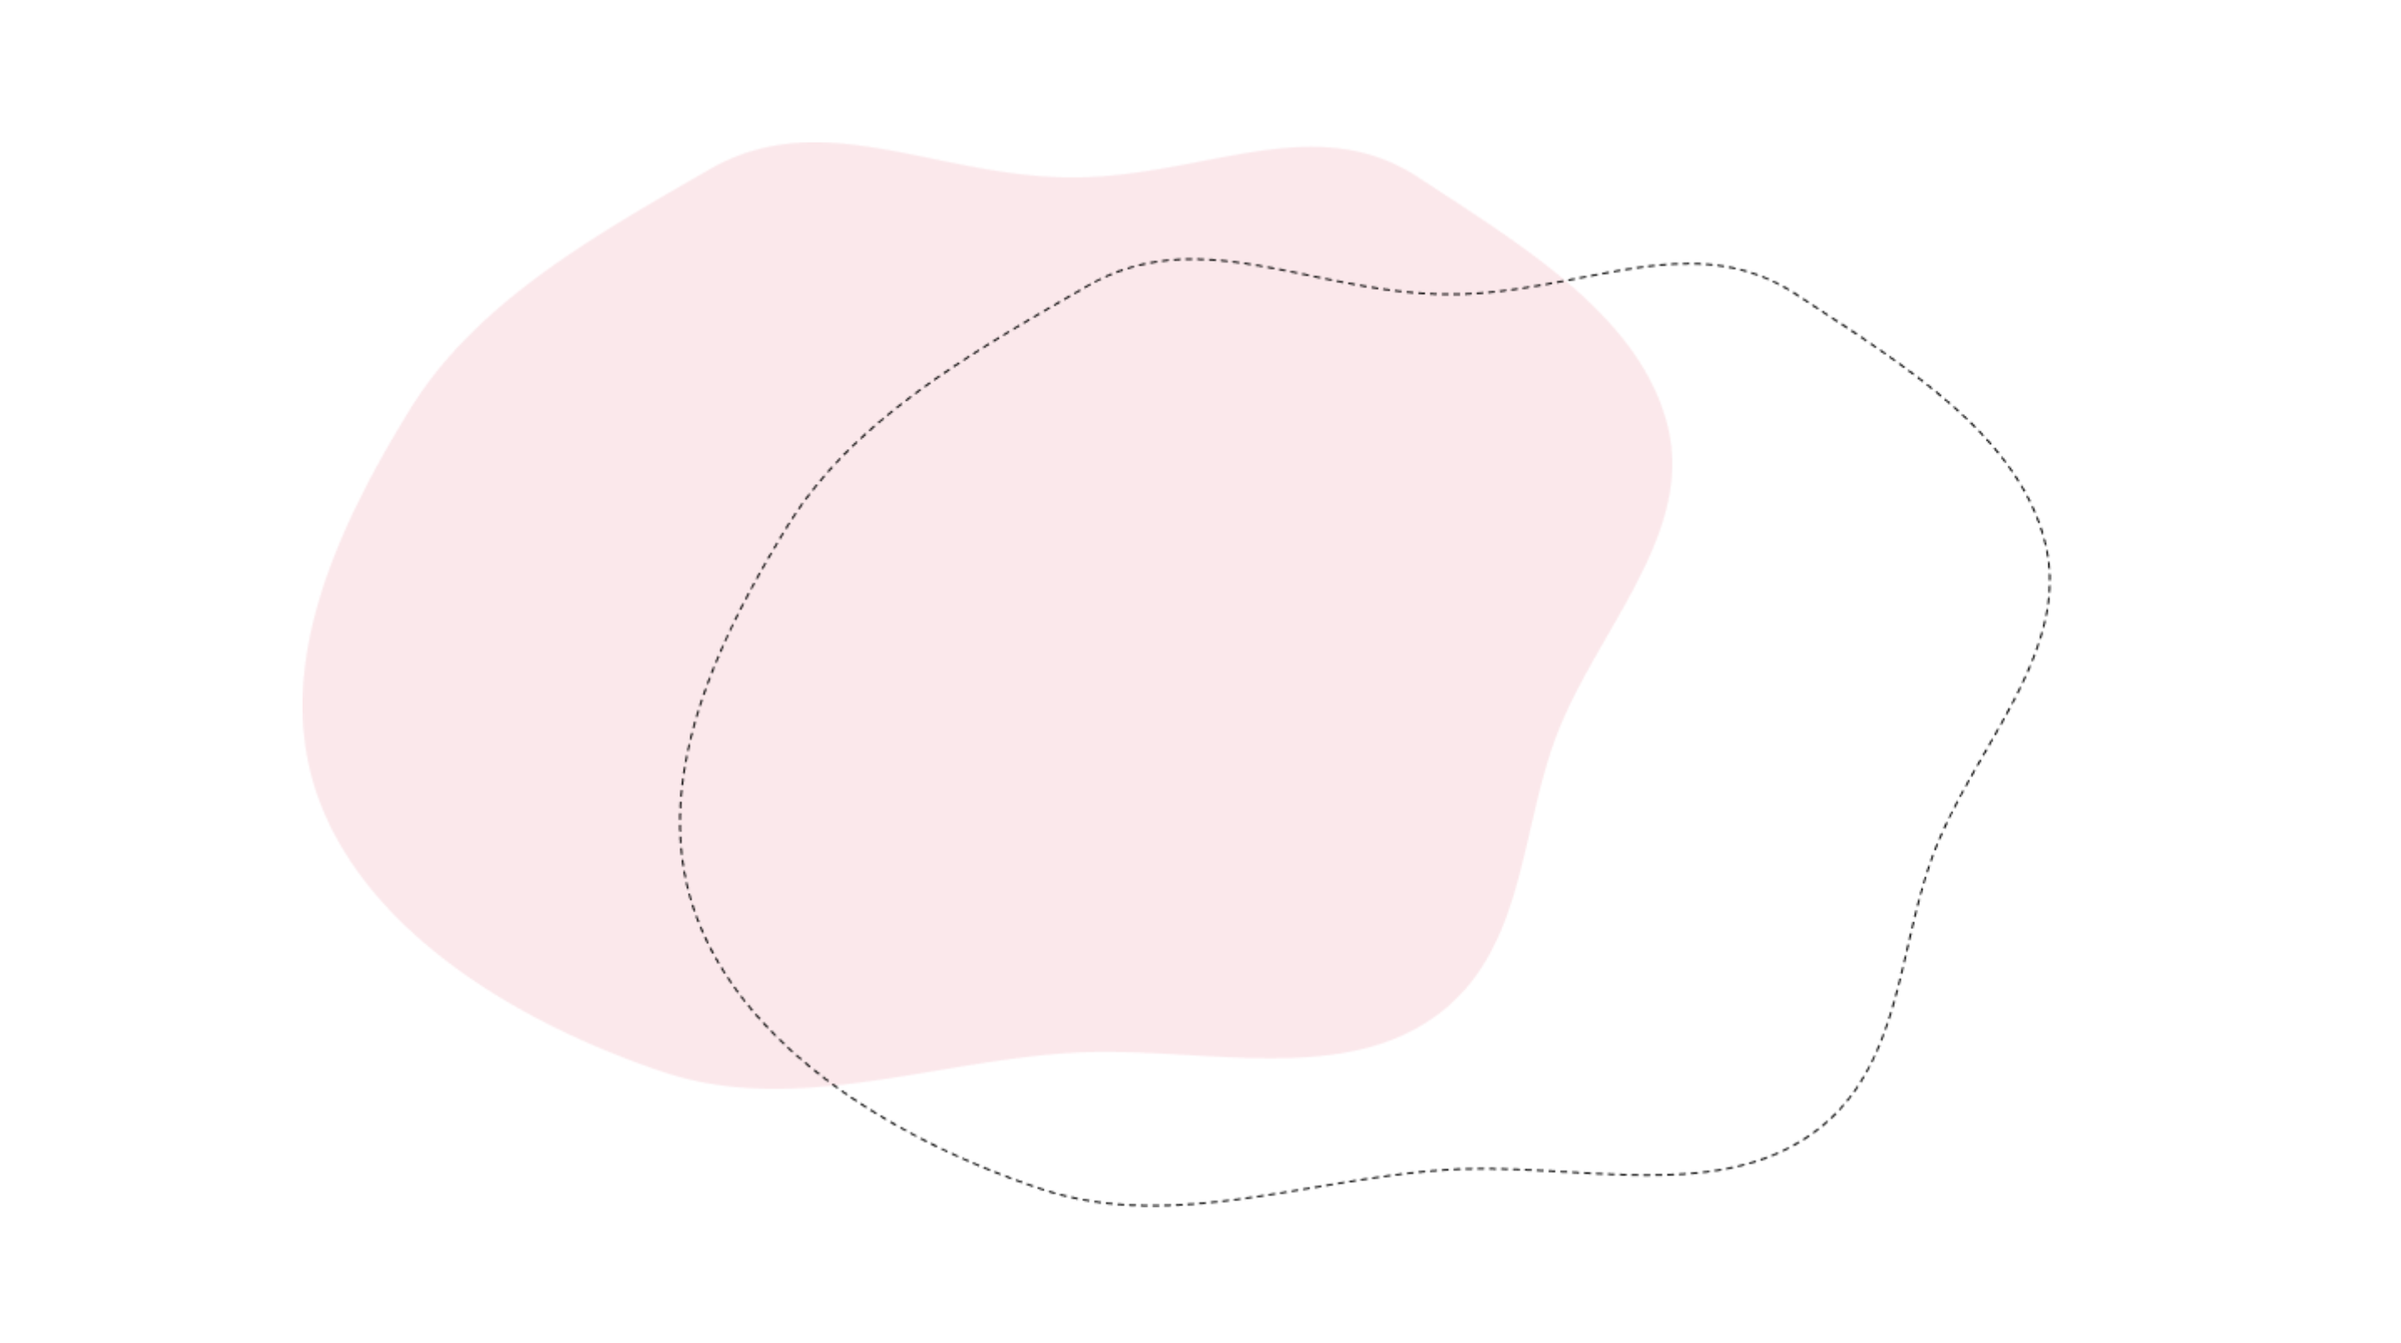
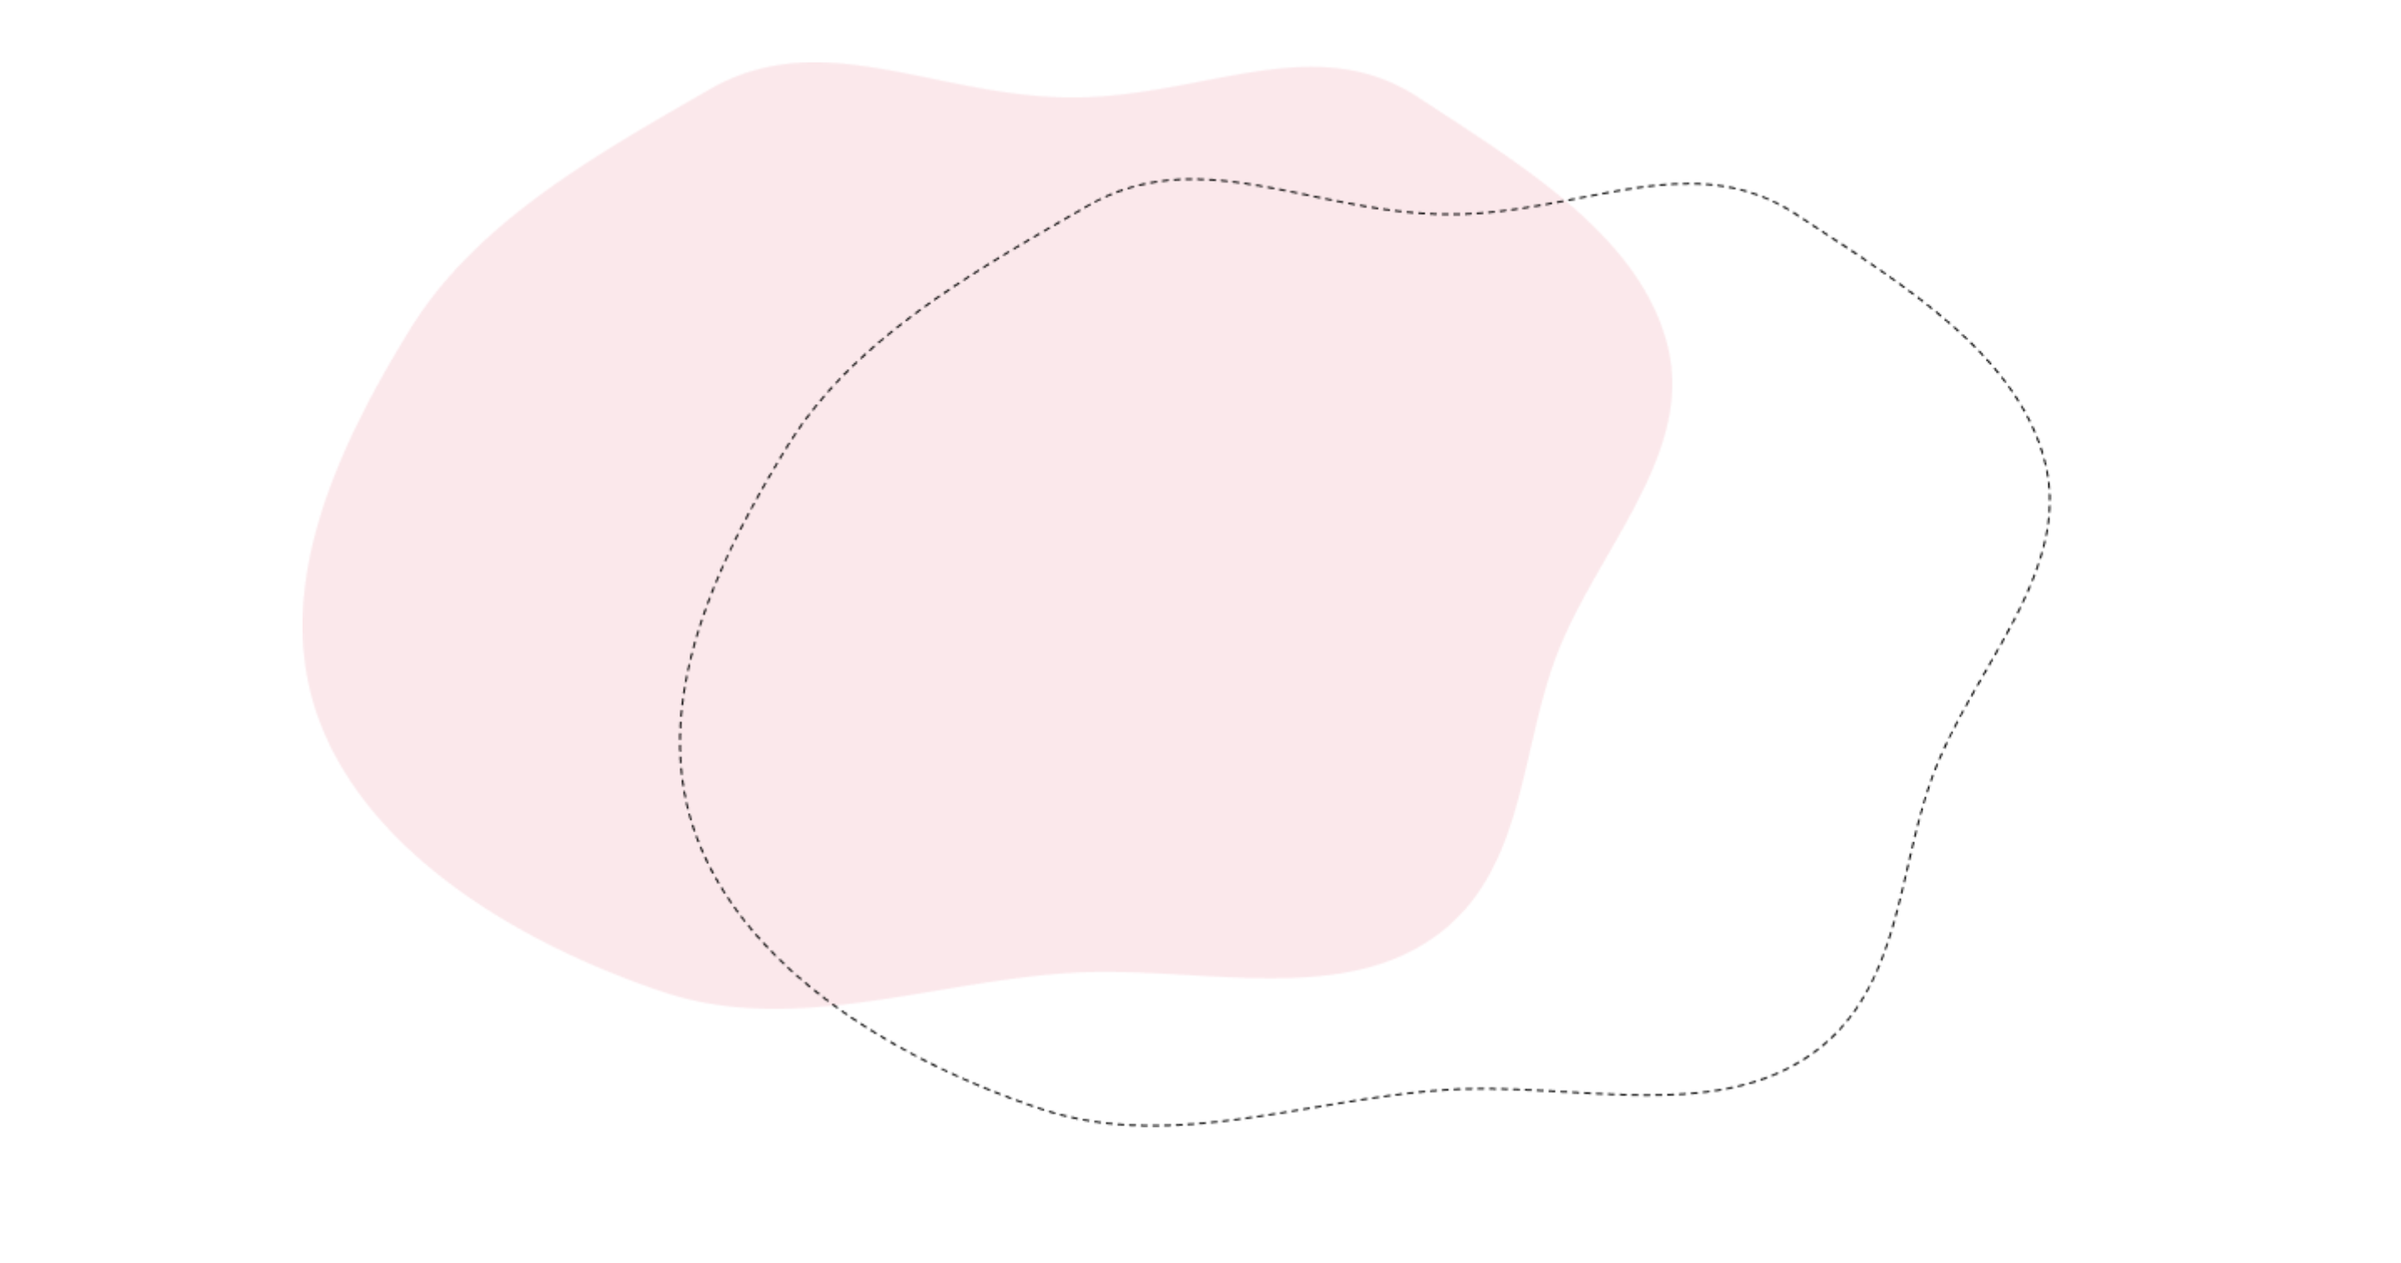
Added responsiveness

diff --git a/src/pages/about.js b/src/pages/about.js
@@ -39,14 +39,14 @@ const About = () => (
                     <p data-sal="slide-up"
   data-sal-delay="300"
   data-sal-easing="ease">
-                    Though I'm not actively reporting anymore, I owe most of my skillsets to what student newspapers and internships have taught me. As a journalist, I covered activism, politics, food and internet culture. I was especially interested in longform storytelling, which led me to join and become editor-in-chief of Synapse Magainze, a longform magazine at UNC and pitch my own articles on student activism to outlets. I also interned at UNC's Southern Oral History Center, where I interviewed and conducted research on American Indian Activists at UNC.                  
+                    Though I'm not actively reporting anymore, I owe most of my skillsets to what student newspapers and internships have taught me. As a journalist, I covered activism, politics, food and internet culture. I was especially interested in longform storytelling, which led me to join and become editor-in-chief of Synapse Magainze, a longform magazine at UNC, and pitch my own articles on student activism to various outlets. I also interned at UNC's Southern Oral History Center, where I interviewed and conducted research on American Indian Activists at UNC.                  
                     </p>
                     <h4 data-sal="slide-up"
   data-sal-delay="300"
   data-sal-easing="ease">Technology 🤖</h4>
                     <p data-sal="slide-up"
   data-sal-delay="300"
-  data-sal-easing="ease">Aftering taking Intro to Computer Science my second semester of college, I was instantly hooked, spending countless hours working on problem sets and extra credit. I love problem solving and the way that my computer science courses challenge me to think in new ways. To me, coding feels like magic—nowhere else can I transform an idea into tangible, interactive programs through just a few lines of text. I love figuring out the different ways of solving a problem and understanding how a computer works, from C to assembly language to binary to circuits and transistors. Because of that, I continued to take classes in the CS department, hoping that knowing how to code would be useful to me someday, until I realized majoring in it was a possibility.</p>
+  data-sal-easing="ease">After taking Intro to Computer Science my second semester of college, I was instantly hooked, spending countless hours working on problem sets and extra credit. I love problem solving and the way that my computer science courses challenged me to think in new ways. To me, coding feels like magic—nowhere else can I transform an idea into tangible, interactive programs through just a few lines of text. I love figuring out the different ways of solving a problem and understanding how a computer works, from C to assembly language to binary to circuits and transistors. Because of that, I continued to take classes in the CS department, hoping that knowing how to code would be useful to me someday, until I realized majoring in it was a possibility.</p>
                     <p data-sal="slide-up"
   data-sal-delay="300"
   data-sal-easing="ease">Since then, I've combined my interests in journalism and technology by taking classes in human computer interaction and digital humanities and as a developer and product manager at UNC’s <a href="http://reeseinnovate.com/">Reese Innovation Lab</a>, using technology to create products that improve storytelling and education. I also spent a summer reaching education technology (specifically, learning games) at Carngie Mellon's Human Computer Interaction Institute and volunteer as a data fellow at BlueBonnet Data, where I use Python and GIS to conduct research on voter outreach for Sam Edney's NC HD-113 campaign.</p>
@@ -64,7 +64,7 @@ const About = () => (
   data-sal-easing="ease">At UNC, I worked to build community through various student organizations. I was heavily involved in the Asian American community, where I helped avocate for an Asian American studies program and an Asian American Center (<a href="https://www.dailytarheel.com/article/2019/10/asian-american-center">which was created in Fall 2020</a>!) and organized <a href="https://taascon.org/">a conference on the complexity of Asian American identities for college students</a> in North Carolina's Triangle region.</p>
                     <h4 data-sal="slide-up"
   data-sal-delay="300"
-  data-sal-easing="ease">Misc.🏠</h4>
+  data-sal-easing="ease">Misc. 🏠</h4>
                     <p data-sal="slide-up"
   data-sal-delay="300"
   data-sal-easing="ease">Besides the above, I enjoy texting my friends, reading, listening to podcasts (recs: Still Processing, The Daily, FiveThirtyEight Politics, Longform and Reply All), watching TikToks and making different types of pasta. If you'd like to speak about anything above or if you'd like to tell me about some of your interests, reach out at lilylou16[at]gmail.com or find me on my social media below.</p>

diff --git a/src/pages/index.js b/src/pages/index.js
@@ -11,54 +11,12 @@ import Writing from "./writing.js";
 import About from "./about.js";
 
 
-const IndexPage = () => (
-  <StaticQuery
-  query={graphql`
-  query {
-    background: file(relativePath: {eq: "blob.png"}) {
-      childImageSharp {
-        fluid(maxWidth: 2000) {
-          ...GatsbyImageSharpFluid
-        ...GatsbyImageSharpFluidLimitPresentationSize        }
-      }
-    }
-    backgroundMed: file(relativePath: {eq: "blob-med.png"}) {
-      childImageSharp {
-        fluid(maxWidth: 800) {
-          ...GatsbyImageSharpFluid
-        ...GatsbyImageSharpFluidLimitPresentationSize        }
-      }
-    }
-    backgroundSm: file(relativePath: {eq: "blob-sm.png"}) {
-      childImageSharp {
-        fluid(maxWidth: 600) {
-          ...GatsbyImageSharpFluid
-        ...GatsbyImageSharpFluidLimitPresentationSize        }
-      }
-    }
-
-  }
-      `}
-  render={data => {
-    //const size = useWindowSize();
-
-    let imageData = data.background.childImageSharp.fluid;
-    //let width = size.width;
-    //if (width < 533) {
-    //  imageData = data.backgroundSm.childImageSharp.fluid;
-    //} else if (width < 656) {
-    //  imageData = data.backgroundMed.childImageSharp.fluid;
-    //}
-
-
-    return (
+const IndexPage = () => 
+     (
       <Layout>
 
     <SEO title="Lily Lou — Personal Site" />
-        <BackgroundImage id={`background-intro`} fluid={imageData}>
-          <MainPage></MainPage>
-        </BackgroundImage>
-
+        <MainPage></MainPage>
         <Projects></Projects>
         <Writing></Writing>
         <About></About>
@@ -68,39 +26,6 @@ const IndexPage = () => (
           )
 
 
-  }}
-  />
-)
+ 
 export default IndexPage
-
-function useWindowSize() {
-  // Initialize state with undefined width/height so server and client renders match
-  // Learn more here: https://joshwcomeau.com/react/the-perils-of-rehydration/
-  const [windowSize, setWindowSize] = useState({
-    width: undefined,
-    height: undefined,
-  });
-
-  useEffect(() => {
-    // Handler to call on window resize
-    function handleResize() {
-      // Set window width/height to state
-      setWindowSize({
-        width: window.innerWidth,
-        height: window.innerHeight,
-      });
-    }
-    
-    // Add event listener
-    window.addEventListener("resize", handleResize);
-    
-    // Call handler right away so state gets updated with initial window size
-    handleResize();
-    
-    // Remove event listener on cleanup
-    return () => window.removeEventListener("resize", handleResize);
-  }, []); // Empty array ensures that effect is only run on mount
-
-  return windowSize;
-}
 

diff --git a/src/pages/main.js b/src/pages/main.js
@@ -1,14 +1,12 @@
-import React from "react"
-import { Link } from "gatsby"
+import React, { useState, useEffect } from 'react';
 import 'bootstrap/dist/css/bootstrap.min.css'
 import BackgroundImage from "gatsby-background-image"
-import Layout from "../components/layout"
-import Image from "../components/image"
 import '../styles/global.scss';
-import { graphql, StaticQuery } from "gatsby"
-import Img from "gatsby-image"
+import '../styles/main.scss';
 import Typewriter from 'typewriter-effect';
 import GraphemeSplitter from "grapheme-splitter";
+import { graphql, useStaticQuery } from "gatsby"
+
 
 const MainPage = () => {
   const stringSplitter = string => {
@@ -63,5 +61,36 @@ const MainPage = () => {
   
   
   export default MainPage
+  
+  function useWindowSize() {
+    // Initialize state with undefined width/height so server and client renders match
+    // Learn more here: https://joshwcomeau.com/react/the-perils-of-rehydration/
+    const [windowSize, setWindowSize] = useState({
+      width: undefined,
+      height: undefined,
+    });
+  
+    useEffect(() => {
+      // Handler to call on window resize
+      function handleResize() {
+        // Set window width/height to state
+        setWindowSize({
+          width: window.innerWidth,
+          height: window.innerHeight,
+        });
+      }
+      
+      // Add event listener
+      window.addEventListener("resize", handleResize);
+      
+      // Call handler right away so state gets updated with initial window size
+      handleResize();
+      
+      // Remove event listener on cleanup
+      return () => window.removeEventListener("resize", handleResize);
+    }, []); // Empty array ensures that effect is only run on mount
+  
+    return windowSize;
+  }
   
   

diff --git a/src/pages/projects.js b/src/pages/projects.js
@@ -33,7 +33,7 @@ const Projects = () => (
       }}/>
     <p data-sal="slide-up"
   data-sal-delay="300"
-  data-sal-easing="ease">Also see: <a href="https://twitter.com/ted_talk_ideas">my TED talk ideas Twitter bot</a>, <a href="https://docs.google.com/document/d/1hGf2Lqtz47p9Zp9p7H6_iZ9AWrRicgFH8a9YFck8HkY/edit">my research on staff salaries at UNC by department compared to number of majors</a>, <a href="https://docs.google.com/presentation/d/1gaZ-C5IJ-6lrQUSiookTbH_GjR4kDZNdkrWy2QIEpks/edit?usp=sharing">a presentation I gave for a class about the Twitter hashtag #StayWoke</a> and <a href="https://docs.google.com/presentation/d/14acDvW6fyJq6NLHd8lFq7Ouzk8hqsojaga-00HhmAaQ/edit?usp=sharing">a presentation I contributed to about opinion mining and sentiment analysis in climate change tweets</a> (yes, I'm addicted to Twitter). For even more, visit <a href="https://github.com/lilyhlou">my Github</a>.</p>
+  data-sal-easing="ease">Also see: <a href="https://twitter.com/ted_talk_ideas">my TED talk ideas Twitter bot</a>, <a href="https://docs.google.com/document/d/1hGf2Lqtz47p9Zp9p7H6_iZ9AWrRicgFH8a9YFck8HkY/edit">my research on staff salaries at UNC by department compared to number of majors</a>, <a href="https://docs.google.com/presentation/d/1gaZ-C5IJ-6lrQUSiookTbH_GjR4kDZNdkrWy2QIEpks/edit?usp=sharing">a data presentation I gave for a class about trends in the Twitter hashtag #StayWoke</a> and <a href="https://docs.google.com/presentation/d/14acDvW6fyJq6NLHd8lFq7Ouzk8hqsojaga-00HhmAaQ/edit?usp=sharing">a project about opinion mining and sentiment analysis in climate change tweets</a> (yes, I'm addicted to Twitter). For even more, visit <a href="https://github.com/lilyhlou">my Github</a>.</p>
   </div>
 )
 

diff --git a/src/components/header.js b/src/components/header.js
@@ -9,10 +9,10 @@ const Header = ({ siteTitle }) => (
     <Navbar.Toggle aria-controls="basic-navbar-nav" />
     <Navbar.Collapse id="basic-navbar-nav">
     <Nav className="ml-auto" activeKey="/home">
-      <Nav.Link href="#main">Home</Nav.Link>
-      <Nav.Link href="#code">Code</Nav.Link>
-      <Nav.Link href="#writing">Writing</Nav.Link>
-      <Nav.Link href="#about">About</Nav.Link>
+      <p><Nav.Link href="#main">Home</Nav.Link></p>
+      <p><Nav.Link href="#code">Code</Nav.Link></p>
+      <p><Nav.Link href="#writing">Writing</Nav.Link></p>
+      <p><Nav.Link href="#about">About</Nav.Link></p>
 
     </Nav>
     </Navbar.Collapse>

diff --git a/src/styles/card.scss b/src/styles/card.scss
@@ -63,12 +63,12 @@
 
   @media only screen and (max-width: 1024px) {
     .overlay {
-      height: 91%;
+      height: 92.7%;
     }
   }
   @media only screen and (max-width: 768px) {
     .overlay {
-      height: 89%;
+      height: 90.2%;
     }
   }
   @media only screen and (max-width: 425px) {
@@ -79,8 +79,15 @@
 
   @media only screen and (max-width: 375px) {
     .overlay {
-      height: 89.7%;
+      height: 89%;
     }
+    .overlay .card-title {
+      font-size: 1.1rem; 
+    }
+    .overlay .card-subtitle {
+      font-size: 0.85rem; 
+    }
+
   }
   @media only screen and (max-width: 320px) {
     .overlay {

diff --git a/src/components/layout.css b/src/components/layout.css
@@ -654,18 +654,13 @@ pre tt:before,
 pre tt:after {
   content: "";
 }
-@media only screen and (max-width: 480px) {
-  html {
-    font-size: 100%;
-  }
-}
 
 @media only screen and (max-width: 800px) {
   p {
-      font-size: 30px;
+      font-size: 1.25rem;
   }  
   p.type {
-    font-size: 30px;
+    font-size: 1.25rem;
   
   }
   
@@ -674,11 +669,8 @@ pre tt:after {
   }
 }
 @media only screen and (max-width: 500px) {
-  p {
-    font-size: 25px;
-}  
 p.type {
-  font-size: 25px;
+  font-size: 1.25rem;
 
 }
 h1.main {

diff --git a/src/styles/main.scss b/src/styles/main.scss
@@ -1,0 +1,18 @@
+div#header {
+    background-color: white;
+    background-image: url(../images/blob.png); 
+    background-repeat: no-repeat;
+    background-size: cover;
+    background-position: center top;
+}
+
+@media only screen and (max-width: 750px) {
+    div#header {
+        background-image: url(../images/blob-med.png); 
+    }
+}
+@media only screen and (max-width: 565px) {
+    div#header {
+        background-image: url(../images/blob-sm.png); 
+    }
+}

diff --git a/src/projects/rtc.md b/src/projects/rtc.md
@@ -1,8 +1,8 @@
 ---
 path: "/rtc"
 date: Summer 2020
-title: "Women of Rewriting the Code Membership Directory and Visualization"
-subtitle: "Searchable directory and data visualizations for Women of Rewriting the Code's Rewrite Your Summer. Won 3rd place of all fellow projects."
+title: "RTC Membership Directory and Visualization"
+subtitle: "Researched and developed a searchable directory and data visualizations of Women of Rewriting the Code members for their Rewrite Your Summer program. Won 3rd place of all fellow projects."
 tech: "React, Tableau, Express"
 source: 'https://github.com/lilyhlou/rtcstudentprofiles'
 image: "../images/rtc.png"

diff --git a/src/projects/paint-app.md b/src/projects/paint-app.md
@@ -2,7 +2,7 @@
 path: "/paint-app"
 date: Fall 2017
 title: "Java Paint App"
-subtitle: "Image editor using Java UI including drawing functionality, adjustments to image, and pixel inspector. Extended app to create a movable 9-piece puzzle."
+subtitle: "Image editor using Java GUI including drawing functionality, adjustments to image, and pixel inspector. Extended app to create a movable 9-piece puzzle."
 tech: "JavaFX"
 source: 'https://github.com/lilyhlou/paintapp'
 image: "../images/paint-app.png"

diff --git a/src/projects/mailer.md b/src/projects/mailer.md
@@ -2,7 +2,7 @@
 path: "/mailer"
 date: Summer 2020
 title: "BLM Mailer"
-subtitle: "Contributed to a open source project connecting auto-generated email to Gatsby front end to email local representatives about police brutality."
+subtitle: "Contributed to and deployed an open source project connecting auto-generated email to React front end to email local representatives about police brutality."
 tech: "JavaFX"
 source: 'blacklives.email'
 image: "../images/blmailer.png"
